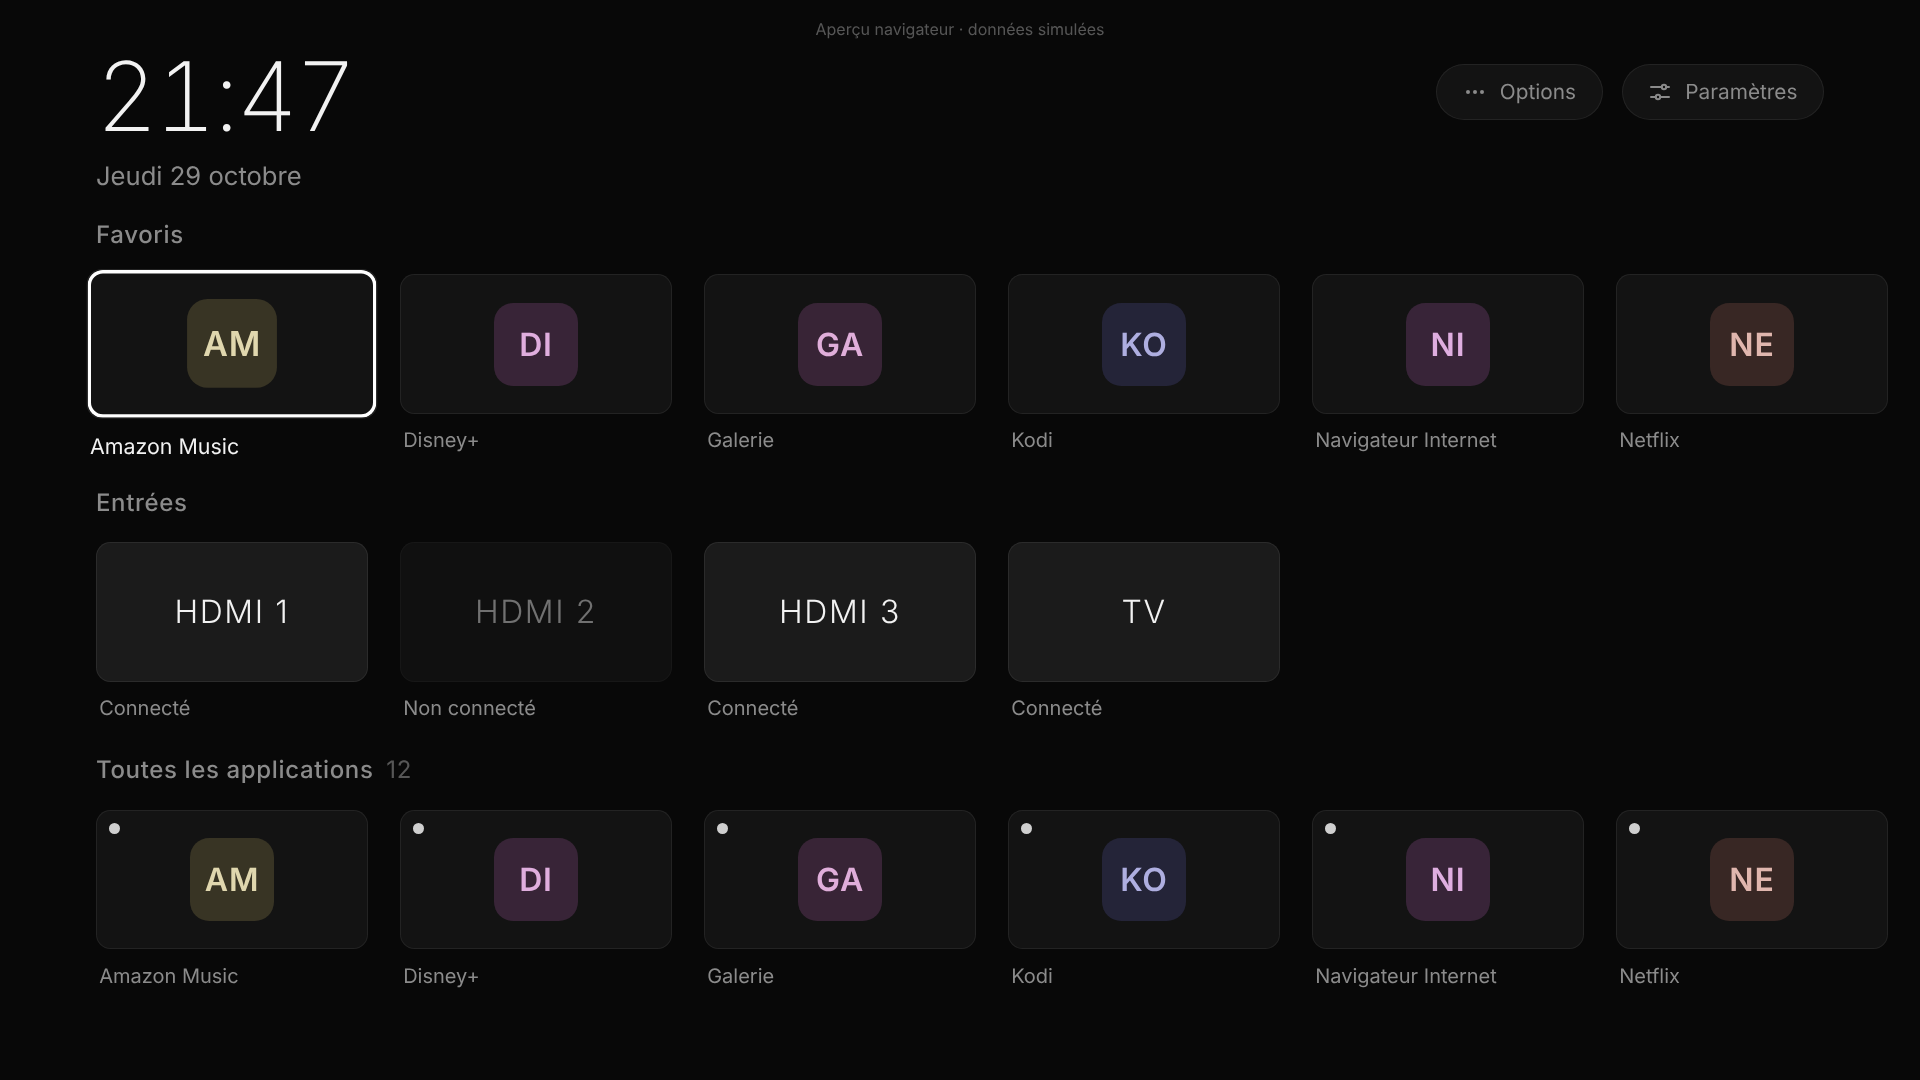
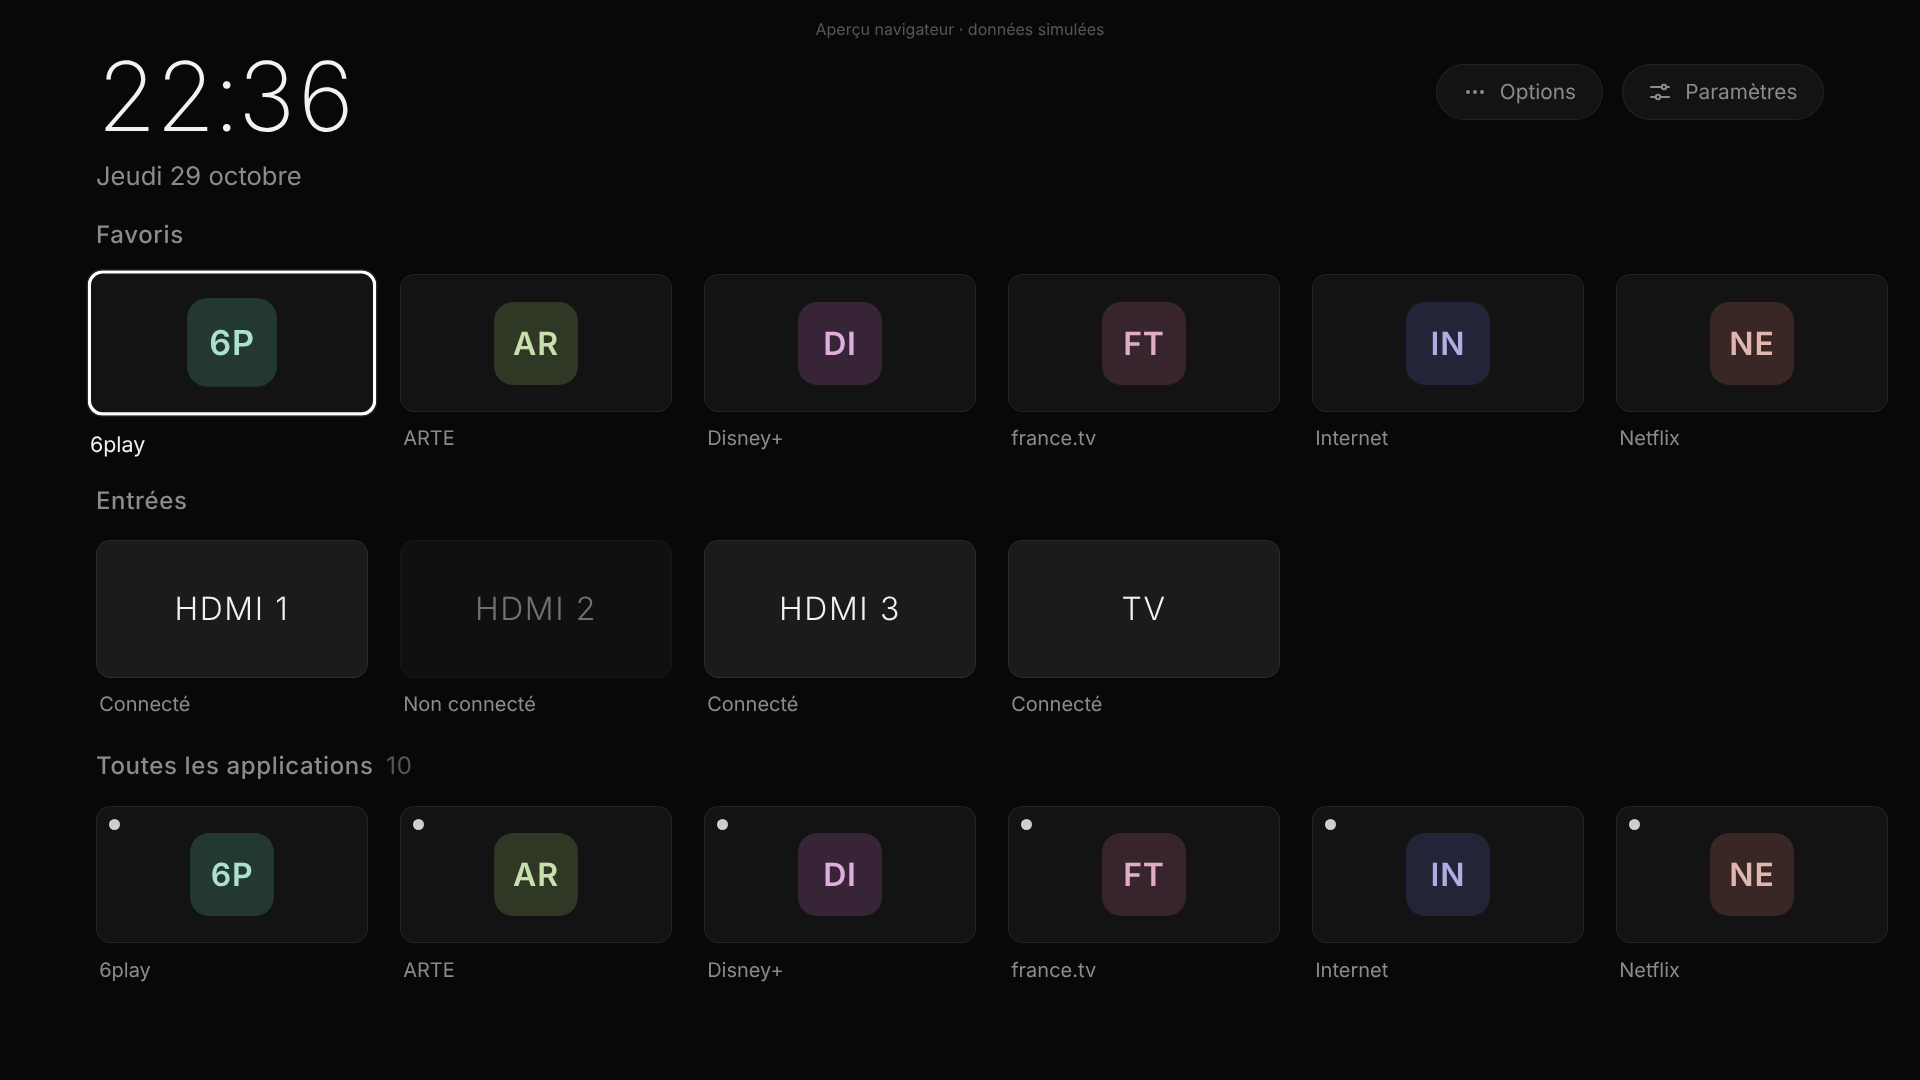
Tri des applis

diff --git a/app/js/platform.js b/app/js/platform.js
@@ -31,6 +31,48 @@
     };
     var SOURCE_ORDER = ['HDMI', 'AV', 'COMP', 'SVIDEO', 'SCART', 'DVI', 'PC', 'TV'];
 
+    /*
+     * Tri des applis. getAppsInfo() renvoie ~450 entrées sur une Samsung : surtout des
+     * services système (pub, assistants, mises à jour…) déclarés visibles. On garde :
+     *  - les applis du store Samsung : identifiant « 10 caractères » + « . » + nom,
+     *    sauf leurs services d'arrière-plan ;
+     *  - les quelques vraies applis intégrées par Samsung (affichées seulement si installées).
+     * Le reste est classé « système » : masqué par défaut, affichable dans les paramètres.
+     */
+    var STORE_ID = /^[A-Za-z0-9]{10}\.[A-Za-z0-9_-]+$/;
+    var STORE_HELPER = /service$|preview$|extension$|emanual|publicvalue|privacychoices|^otapp$|cmswebapp/i;
+    var BUILTIN_APPS = [
+        'org.tizen.netflix-app', 'org.tizen.primevideo', 'org.tizen.browser',
+        'com.samsung.tv.cobalt-yt', 'com.samsung.tv.cobalt-ytkids', 'org.tizen.apple.apple-music',
+        'com.samsung.tv.aria-video', 'com.samsung.tv.SmartThingsApp', 'com.samsung.tv.gaminghub',
+        'com.samsung.tv.store'
+    ];
+
+    function isUserApp(id) {
+        if (/-dummy$/.test(id)) return false;
+        if (BUILTIN_APPS.indexOf(id) >= 0) return true;
+        return STORE_ID.test(id) && !STORE_HELPER.test(id.split('.')[1]);
+    }
+
+    // « TF1+ : Streaming, TV en Direct » -> « TF1+ » ; « Spotify - Music and Podcasts » -> « Spotify »
+    function cleanName(name) {
+        var n = String(name || '').trim();
+        var short = n.split(/\s[:\-–|]\s/)[0].trim();
+        return short || n;
+    }
+
+    // Une même appli peut exister deux fois (YouTube du store + YouTube intégré) :
+    // on garde l'appli utilisateur, puis la première rencontrée.
+    function dedupeByName(apps) {
+        var byName = {};
+        apps.forEach(function (a) {
+            var k = a.name.toLowerCase();
+            var prev = byName[k];
+            if (!prev || (prev.system && !a.system) || (!prev.system && !a.system && STORE_ID.test(a.id) && !STORE_ID.test(prev.id))) byName[k] = a;
+        });
+        return apps.filter(function (a) { return byName[a.name.toLowerCase()] === a; });
+    }
+
     function promisify(fn) {
         return new Promise(function (resolve, reject) {
             try {
@@ -95,13 +137,13 @@
             return promisify(function (ok, ko) { tz.application.getAppsInfo(ok, ko); }).then(function (infos) {
                 var seen = {};
                 var apps = infos.filter(function (a) {
-                    if (!a || !a.id || !a.name || a.show === false || a.id === self || seen[a.id]) return false;
+                    if (!a || !a.id || !String(a.name || '').trim() || a.show === false || a.id === self || seen[a.id]) return false;
                     seen[a.id] = true;
                     return true;
                 }).map(function (a) {
-                    return { id: a.id, name: a.name, icon: iconUrl(a.iconPath) };
+                    return { id: a.id, name: cleanName(a.name), icon: iconUrl(a.iconPath), system: !isUserApp(a.id) };
                 });
-                return sortByName(apps);
+                return sortByName(dedupeByName(apps));
             });
         },
 
@@ -152,8 +194,20 @@
     /* ------------------------------------------------------------------ */
     /* Implémentation aperçu (navigateur, tests automatisés)               */
     /* ------------------------------------------------------------------ */
-    var MOCK_APPS = ['Netflix', 'Prime Video', 'YouTube', 'Disney+', 'Spotify', 'Amazon Music',
-        'Plex', 'Kodi', 'Twitch', 'Navigateur Internet', 'Galerie', 'SmartThings'];
+    // Identifiants relevés sur une UE43CU7025 (sdb shell 0 applist), mélange d'applis et de services.
+    var MOCK_APPS = [
+        ['org.tizen.netflix-app', 'Netflix'], ['org.tizen.primevideo', 'Prime Video'],
+        ['org.tizen.primevideo-dummy', 'Prime Video'], ['9Ur5IzDKqV.TizenYouTube', 'YouTube'],
+        ['com.samsung.tv.cobalt-yt', 'Youtube'], ['MCmYXNxgcu.DisneyPlus', 'Disney+'],
+        ['MCmYXNxgcu.DisneyPlusService', 'DisneyPlusPreviewService'],
+        ['rJeHak5zRg.Spotify', 'Spotify - Music and Podcasts'], ['rJeHak5zRg.SpotifyService', 'SpotifyRecomendationsService'],
+        ['Ol7HVEXtqh.6play', '6play'], ['E0P3lRI4H7.MYTF1', 'TF1+ : Streaming, TV en Direct'],
+        ['QY16tZ64E3.francetv', 'france.tv'], ['aLlph042JZ.arte', 'ARTE'], ['aLlph042JZ.preview', 'preview'],
+        ['org.tizen.browser', 'Internet'], ['OGLLvqej7u.service', 'service'],
+        ['org.tizen.rm-network-status', ' Network status widget '], ['org.tizen.rm-survey', ' RM survey popup '],
+        ['com.samsung.tv.adplayer', 'AdPlayer'], ['com.samsung.tv.targeted-ad-service', 'Targeted Advertisment Service'],
+        ['25emanual2.emanual', 'User Guide'], ['w2VwCK465D.OTApp', 'Samsung TV Plus Privacy Settings']
+    ];
     var mockSources = {
         connected: [{ type: 'HDMI', number: 1 }, { type: 'HDMI', number: 3 }, { type: 'TV', number: 1 }],
         disconnected: [{ type: 'HDMI', number: 2 }]
@@ -165,9 +219,9 @@
         watching: null,
 
         listApps: function () {
-            return Promise.resolve(sortByName(MOCK_APPS.map(function (name) {
-                return { id: 'mock.' + name.toLowerCase().replace(/[^a-z0-9]+/g, ''), name: name, icon: '' };
-            })));
+            return Promise.resolve(sortByName(dedupeByName(MOCK_APPS.map(function (m) {
+                return { id: m[0], name: cleanName(m[1]), icon: '', system: !isUserApp(m[0]) };
+            }))));
         },
         launchApp: function (id) {
             this.launched.push(id);
@@ -190,5 +244,6 @@
 
     TC.platform = isTizen ? tizenImpl : previewImpl;
     TC.platform.errorText = errorText;
+    TC.platform.isUserApp = isUserApp;
     TC.KEYS = KEYS;
 })(this);

diff --git a/app/js/app.js b/app/js/app.js
@@ -132,9 +132,19 @@
         return null;
     }
 
+    // Applis affichées : sans les services système (sauf réglage) ni les applis masquées.
+    function visibleApps() {
+        var s = store.get();
+        return state.apps.filter(function (a) {
+            return (s.showSystemApps || !a.system) && s.hiddenApps.indexOf(a.id) < 0;
+        });
+    }
+
     function favorites() {
-        var favs = store.get().favorites || [];
-        return favs.map(appById).filter(Boolean);
+        var s = store.get();
+        return (s.favorites || []).map(appById).filter(function (a) {
+            return a && s.hiddenApps.indexOf(a.id) < 0;
+        });
     }
 
     function isFavorite(id) { return (store.get().favorites || []).indexOf(id) >= 0; }
@@ -143,10 +153,13 @@
         return platform.listApps().then(function (apps) {
             state.apps = apps;
             state.appsLoaded = true;
-            var favs = store.get().favorites;
-            if (favs === null) {
-                // Premier lancement : les premières applis détectées deviennent favorites.
-                store.set({ favorites: apps.slice(0, 8).map(function (a) { return a.id; }) });
+            var s = store.get();
+            if (s.favorites === null || s.favoritesVersion < 2) {
+                // Premier lancement (ou favoris choisis avant le tri) : les premières vraies applis.
+                store.set({
+                    favorites: visibleApps().slice(0, 8).map(function (a) { return a.id; }),
+                    favoritesVersion: 2
+                });
             }
         }).catch(function (err) {
             state.appsLoaded = true;
@@ -231,14 +244,15 @@
             }
             return section('inputs', 'Entrées', null, state.inputs.map(inputTile));
         }
-        var apps = state.apps.map(function (a) { return appTile(a, 'apps'); });
+        var all = visibleApps();
+        var apps = all.map(function (a) { return appTile(a, 'apps'); });
         if (!apps.length && state.appsLoaded) {
             apps.push(h('button', { class: 'tile wide ghost focusable', 'data-row': 'apps', 'data-action': 'refresh' }, [
                 h('div', { class: 'art' }, [h('span', { class: 'port', text: '↻' })]),
                 h('span', { class: 'name', text: 'Aucune application détectée · Actualiser' })
             ]));
         }
-        return section('apps', 'Toutes les applications', state.apps.length, apps);
+        return section('apps', 'Toutes les applications', all.length, apps);
     }
 
     function focusKey(el) {
@@ -420,6 +434,12 @@
         var items = [['Ouvrir', function () { closeOverlay(); launch(app); }]];
         items.push([fav ? 'Retirer des favoris' : 'Ajouter aux favoris', function () { closeOverlay(); toggleFavorite(appId); render(); }]);
         if (fav) items.push(['Déplacer dans les favoris', function () { closeOverlay(); startMove(appId); }]);
+        items.push(['Masquer cette appli', function () {
+            closeOverlay();
+            store.set({ hiddenApps: store.get().hiddenApps.concat([appId]) });
+            render();
+            TC.ui.toast('Masquée : ' + app.name + ' (Paramètres ▸ Applis masquées pour la réafficher)', 4000);
+        }]);
         items.push(['Annuler', closeOverlay]);
         openMenu(app.name, items);
         return true;
@@ -453,7 +473,7 @@
             panel.appendChild(h('h3', { text: 'Gérer les favoris' }));
             panel.appendChild(h('p', { class: 'text', text: 'OK pour ajouter ou retirer. Retour pour fermer.' }));
             var list = h('div', { class: 'list', 'data-scroll': 'y' });
-            state.apps.forEach(function (app, i) {
+            visibleApps().forEach(function (app, i) {
                 var b = h('button', { class: 'item check focusable' + (isFavorite(app.id) ? ' on' : ''), 'data-first': i === 0 || null, 'data-app-check': app.id }, [
                     h('span', { text: app.name }), h('span', { class: 'box' })
                 ]);
@@ -467,7 +487,7 @@
                 };
                 list.appendChild(b);
             });
-            if (!state.apps.length) list.appendChild(menuItem('Aucune application détectée', closeOverlay, true));
+            if (!visibleApps().length) list.appendChild(menuItem('Aucune application détectée', closeOverlay, true));
             panel.appendChild(list);
         }, { kind: 'side' });
     }
@@ -592,6 +612,17 @@
             list.appendChild(h('div', { class: 'group', text: 'Accueil' }));
             list.appendChild(row('Gérer les favoris', (s.favorites || []).length + ' favori(s)', {
                 activate: function () { closeOverlay(); openManageFavorites(); }
+            }));
+            list.appendChild(row('Applis système', s.showSystemApps ? 'Affichées' : 'Masquées', {
+                cycle: function () { set({ showSystemApps: !s.showSystemApps }); render(); }
+            }));
+            list.appendChild(row('Applis masquées', s.hiddenApps.length ? s.hiddenApps.length + ' · OK pour tout réafficher' : 'Aucune', {
+                activate: function () {
+                    if (!s.hiddenApps.length) return;
+                    set({ hiddenApps: [] });
+                    render();
+                    TC.ui.toast('Toutes les applis sont réaffichées');
+                }
             }));
             s.sections.forEach(function (id, i) {
                 var b = row('Section ' + (i + 1), SECTION_LABELS[id], {

diff --git a/tests/smoke.test.js b/tests/smoke.test.js
@@ -70,7 +70,12 @@ async function focusSetting(page, label) {
     check((await page.textContent('#date')).length > 5, 'date affichée');
     const favCount = await page.locator('[data-row="favorites"][data-app]').count();
     check(favCount === 8, 'premier lancement : 8 favoris détectés automatiquement (' + favCount + ')');
-    check(await page.locator('[data-row="apps"][data-app]').count() === 12, 'toutes les applis listées');
+    const appNames = await page.$$eval('[data-row="apps"] .name', (els) => els.map((e) => e.textContent));
+    check(appNames.length === 10, '10 vraies applis sur 22 entrées (' + appNames.join(', ') + ')');
+    check(!appNames.some((n) => /AdPlayer|Network status|survey|service|preview|User Guide/i.test(n)), 'services système masqués');
+    check(appNames.filter((n) => /^youtube$/i.test(n)).length === 1, 'YouTube en double fusionné');
+    check(appNames.includes('Spotify') && appNames.includes('TF1+'), 'noms raccourcis (Spotify, TF1+)');
+    check(await page.evaluate(() => TC.platform.isUserApp('org.tizen.primevideo') && !TC.platform.isUserApp('org.tizen.primevideo-dummy')), 'appli « dummy » ignorée');
     check(await page.locator('[data-input]').count() === 4, '4 entrées (HDMI 1-3 + TV)');
     let f = await focused(page);
     check(f && f.row === 'favorites', 'focus initial sur le premier favori');
@@ -148,6 +153,20 @@ async function focusSetting(page, label) {
     await page.waitForTimeout(100);
     check(await page.locator('[data-row="favorites"][data-app]').count() === 7, 'favori retiré');
 
+    // Masquer une appli depuis « Toutes les applications »
+    for (let i = 0; i < 4 && (await focused(page)).row !== 'apps'; i++) await press(page, 'ArrowDown');
+    check((await focused(page)).row === 'apps', 'rangée Applications');
+    await press(page, 'm');
+    for (let i = 0; i < 6; i++) {
+        if ((await focused(page)).text === 'Masquer cette appli') break;
+        await press(page, 'ArrowDown');
+    }
+    check((await focused(page)).text === 'Masquer cette appli', 'option « Masquer cette appli »');
+    await press(page, 'Enter');
+    await page.waitForTimeout(100);
+    check(await page.locator('[data-row="apps"][data-app]').count() === 9, 'appli masquée');
+    await press(page, 'ArrowUp', 2);
+
     console.log('Paramètres');
     await press(page, 'ArrowUp');
     await press(page, 'ArrowRight', 2);
@@ -164,6 +183,15 @@ async function focusSetting(page, label) {
     check(await focusSetting(page, 'Afficher la date'), 'ligne « Afficher la date »');
     await press(page, 'Enter');
     check(await page.isHidden('#date'), 'date masquée');
+    check(await focusSetting(page, 'Applis système'), 'ligne « Applis système »');
+    await press(page, 'ArrowRight');
+    const withSystem = await page.locator('[data-row="apps"][data-app]').count();
+    check(withSystem > 9, 'applis système affichées sur demande (' + withSystem + ')');
+    await press(page, 'ArrowRight');
+    check(await page.locator('[data-row="apps"][data-app]').count() === 9, 'applis système de nouveau masquées');
+    check(await focusSetting(page, 'Applis masquées'), 'ligne « Applis masquées »');
+    await press(page, 'Enter');
+    check(await page.locator('[data-row="apps"][data-app]').count() === 10, 'applis masquées réaffichées');
     check(await focusSetting(page, 'Section 2'), 'ligne « Section 2 »');
     await press(page, 'Enter');
     const secs = await page.evaluate(() => TC.store.get().sections);

diff --git a/app/js/store.js b/app/js/store.js
@@ -20,7 +20,10 @@
         weatherLon: null,
         animations: 'subtle',
         sections: SECTIONS.slice(),
-        favorites: null // null = premier lancement, rempli avec les applis détectées
+        favorites: null, // null = premier lancement, rempli avec les applis détectées
+        favoritesVersion: 0, // < 2 : favoris choisis avant le tri des applis système, à refaire
+        showSystemApps: false,
+        hiddenApps: []
     };
 
     var listeners = [];
@@ -40,6 +43,7 @@
         SECTIONS.forEach(function (x) { if (secs.indexOf(x) < 0) secs.push(x); });
         out.sections = secs;
         if (out.favorites !== null && !Array.isArray(out.favorites)) out.favorites = null;
+        if (!Array.isArray(out.hiddenApps)) out.hiddenApps = [];
         return out;
     }
 
@@ -64,9 +68,9 @@
             listeners.forEach(function (fn) { fn(state, patch); });
         },
         reset: function () {
-            var favorites = state.favorites;
+            var keep = { favorites: state.favorites, favoritesVersion: state.favoritesVersion, hiddenApps: state.hiddenApps };
             state = clone(DEFAULTS);
-            state.favorites = favorites;
+            Object.assign(state, keep);
             save();
             listeners.forEach(function (fn) { fn(state, clone(DEFAULTS)); });
         },

diff --git a/app/css/style.css b/app/css/style.css
@@ -129,7 +129,7 @@ body.ready #app { opacity: 1; }
 .tile {
     flex: 0 0 auto;
     width: 17rem;
-    display: flex; flex-direction: column; gap: 0.9rem;
+    display: flex; flex-direction: column; align-items: stretch; gap: 0.9rem;
     transition: transform var(--dur) ease;
     transform-origin: center 40%;
 }
@@ -141,6 +141,9 @@ body.ready #app { opacity: 1; }
     border: 1px solid var(--line);
     display: flex; align-items: center; justify-content: center;
     overflow: hidden;
+    /* Sans ça, le moteur de la TV rétrécit la carte à la taille de l'icône. */
+    width: 100%;
+    box-sizing: border-box;
 }
 .tile .art::after {
     content: ""; position: absolute; top: 0; right: 0; bottom: 0; left: 0; border-radius: inherit;
